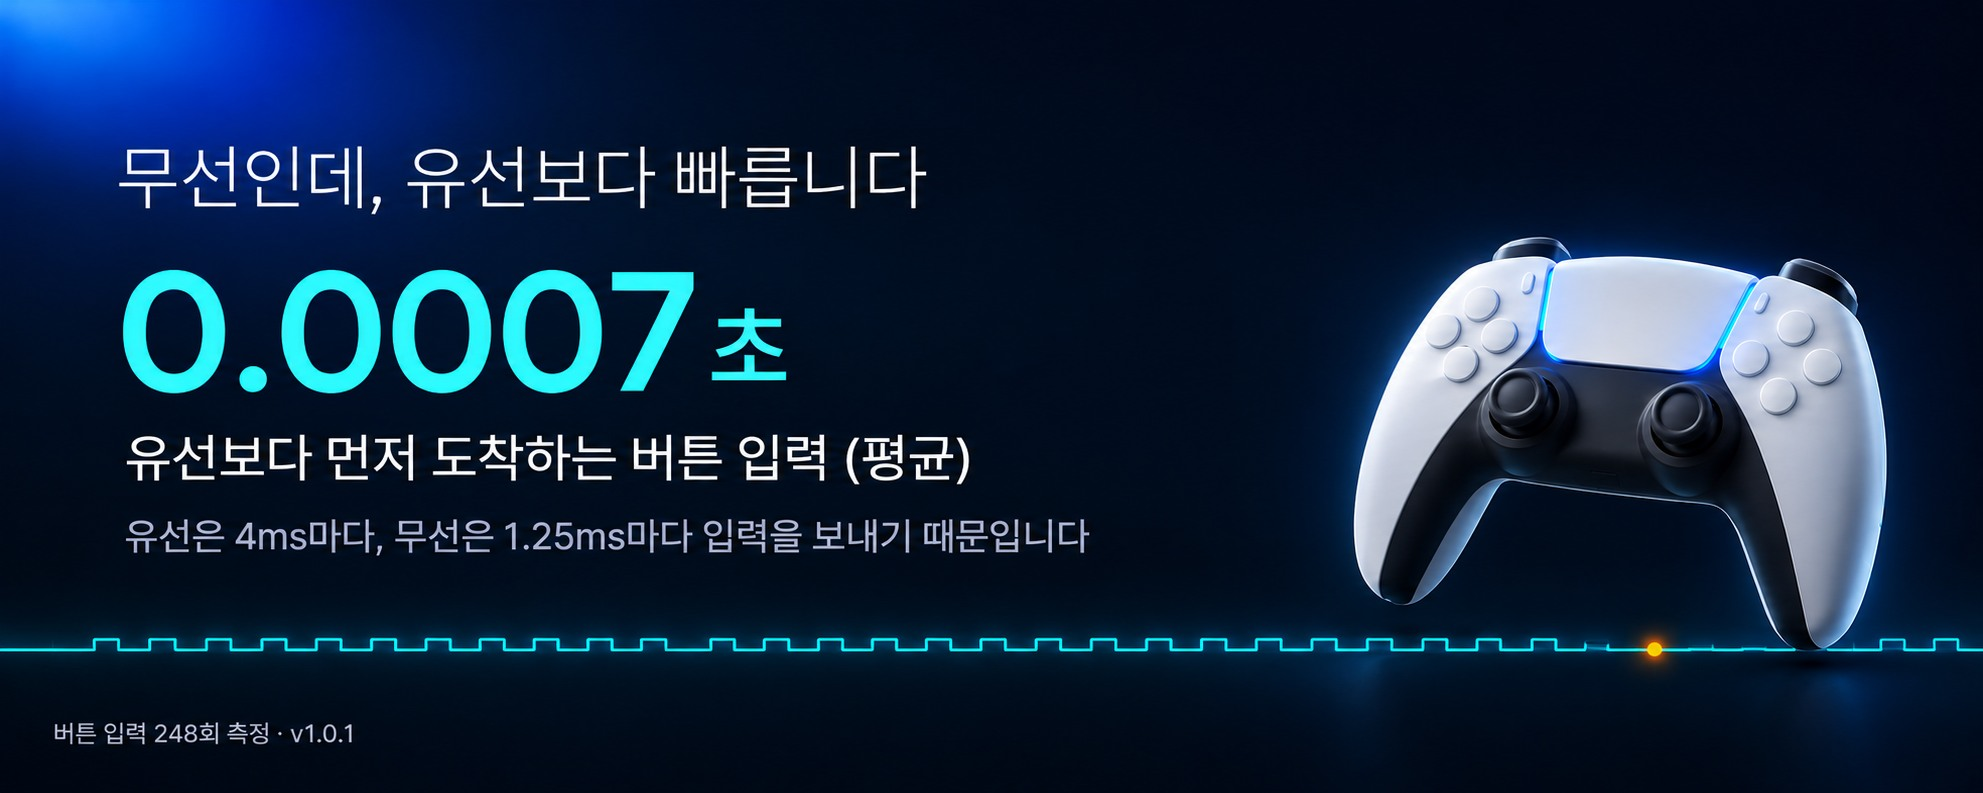
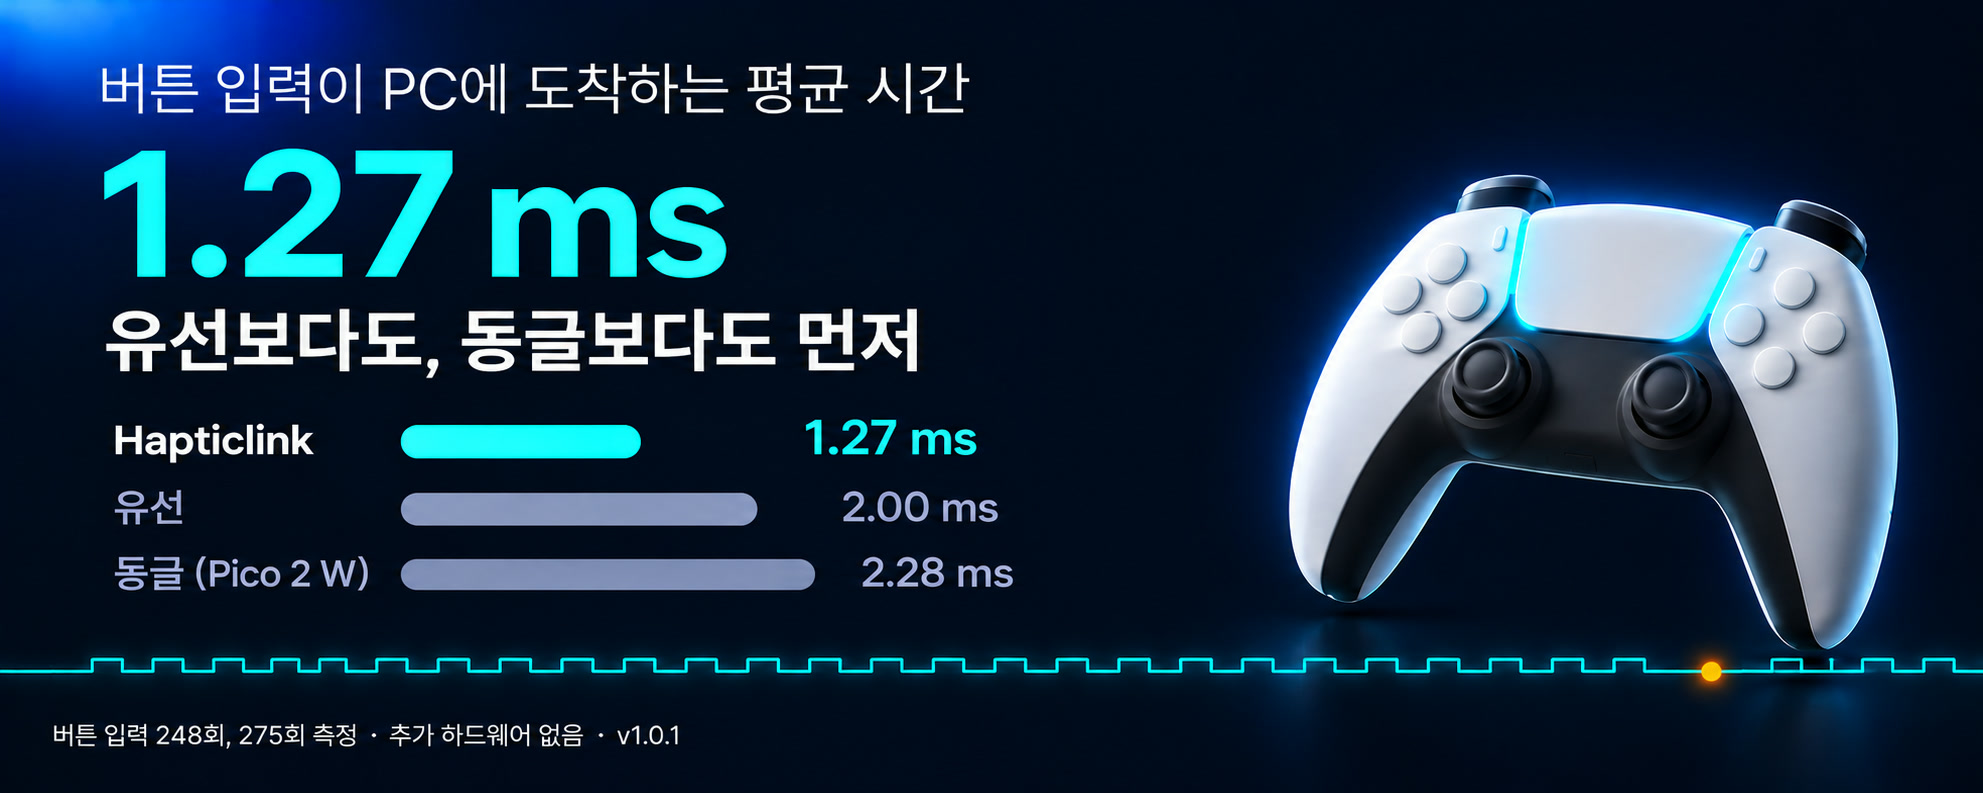
README: 1.0.2, with new screenshots, a comparison with the cable and the dongle, and updating from the program

Changed region(s): [[0.0, 0.0, 0.5537, 0.7566], [0.0, 0.1816, 1.0, 0.9079], [0.0308, 0.9079, 0.3384, 0.9382]]

diff --git a/README.md b/README.md
@@ -3,11 +3,20 @@
 </p>
 
 <p align="center">
-  <a href="https://github.com/Johyeonwoooooooo/Hapticlink/releases/download/v1.0.1/Hapticlink-Setup-1.0.1.exe"><img src="https://img.shields.io/badge/Download%20for%20Windows%20%C2%B7%201.0.1-2f7bff?style=for-the-badge" alt="Download for Windows · 1.0.1" height="44"></a>
+  <a href="https://github.com/Johyeonwoooooooo/Hapticlink/releases/download/v1.0.2/Hapticlink-Setup-1.0.2.exe"><img src="https://img.shields.io/badge/Download%20for%20Windows%20%C2%B7%201.0.2-2f7bff?style=for-the-badge" alt="Download for Windows · 1.0.2" height="44"></a>
 </p>
 
 <p align="center">
   <sub>Windows 10/11, 64-bit · 161 MB · not code-signed yet: on the "Windows protected your PC" screen choose <i>More info</i>, then <i>Run anyway</i> · <a href="https://github.com/Johyeonwoooooooo/Hapticlink/releases">all releases</a></sub>
+</p>
+
+<p align="center">
+  <sub>Found a bug, or have a question? Please open an issue or send an email.</sub>
+</p>
+
+<p align="center">
+  <a href="mailto:hyunwoo02031@naver.com"><img src="https://img.shields.io/badge/Email-hyunwoo02031%40naver.com-2f7bff?style=for-the-badge" alt="Email: hyunwoo02031@naver.com"></a>&nbsp;&nbsp;&nbsp;&nbsp;
+  <a href="https://github.com/Johyeonwoooooooo/Hapticlink/issues/new"><img src="https://img.shields.io/badge/GitHub-Open%20an%20issue-1b2233?style=for-the-badge" alt="Open an issue on GitHub"></a>
 </p>
 
 <p align="center">
@@ -18,7 +27,6 @@
 <h1 align="center">Hapticlink</h1>
 
 <p align="center">
-  <a href="https://github.com/Johyeonwoooooooo/Hapticlink/stargazers"><img src="https://img.shields.io/github/stars/Johyeonwoooooooo/Hapticlink?style=flat-square&color=111111&label=stars" alt="Stars"></a>
   <img src="https://img.shields.io/badge/Windows-10%20%C2%B7%2011-111111?style=flat-square" alt="Windows 10, 11">
   <img src="https://img.shields.io/badge/on--device-no%20data%20sent-111111?style=flat-square" alt="On-device, no data sent">
   <img src="https://img.shields.io/badge/languages-%ED%95%9C%EA%B5%AD%EC%96%B4%20%C2%B7%20English-111111?style=flat-square" alt="Korean, English">
@@ -30,9 +38,32 @@ Hapticlink is a Windows program for the DualSense controller. It does two things
 
 **It lets a wireless pad work in games just like a wired one.** Pair your pad over Bluetooth, open Hapticlink, and start your game. Haptic feedback, adaptive triggers and the controller speaker all work, with no cable and no dongle.
 
-**It tells you whether a pad is healthy.** It is handy before buying a used pad, when you suspect stick drift, or after a repair. Simply follow what the screen asks, and it will tell you, part by part, whether each one is fine or faulty.
+**It tells you whether a pad is healthy.** It is handy when you suspect stick drift, or after a repair. Simply follow what the screen asks, and it will tell you, part by part, whether each one is fine or faulty.
 
-Everything stays on your PC. Hapticlink sends nothing about you or your computer anywhere, and makes no outside connections.
+Everything stays on your PC. Hapticlink sends nothing about you or your computer anywhere. It connects outside only when you ask it to update.
+
+## 0.7 ms ahead of the cable, on average
+
+![Average time for a button press to reach the PC, 1.27 ms: ahead of the cable (2.00 ms) and ahead of the dongle (2.28 ms)](docs/latency.jpg)
+
+One pad was connected by cable and through Hapticlink at the same time, and the moment each button input reached the PC was compared on both. These are the results over 248 button inputs. The dongle was measured the same way, over 275 button inputs.
+
+| | What you need | Wire | Setup | Button press arrives (average) | Inputs that beat the cable |
+| --- | --- | --- | --- | --- | --- |
+| **Hapticlink** | **Nothing** | **No** | **Run the installer** | **about 1.27 ms** | **63%** |
+| Cable | A USB cable | Yes | Plug it in | about 2.00 ms | - |
+| Extra hardware (Pico 2 W dongle) | A Pico 2 W board | No | Buy the board, flash firmware | about 2.28 ms | 27% |
+
+- The arrival times are worked out, not timed directly. A wired pad sends an input every 4 ms, so a press waits 2.00 ms on average; Hapticlink's figure is that minus the measured difference of 0.73 ms, and the dongle's is that plus its measured difference of 0.28 ms. Time spent inside the pad is the same either way and is left out.
+- By the median it arrived 0.70 ms sooner, and 88% of inputs were within 4 ms of the cable.
+- Hapticlink's processing delay is 1.43 ms (median), and at most 4.01 ms 95% of the time. One frame of a 60 fps game is 16.7 ms.
+- The slowest 5% arrived 3.75 ms later or more, and the latest input arrived 11.53 ms later.
+
+A wired DualSense reports every 4 ms, and over Bluetooth it reports every 1.25 ms. So even after the radio and Hapticlink, the wireless input arrives first on average. Wireless does stumble now and then, though: 5 inputs in 100 arrived 3.75 ms or more after the cable.
+
+The processing delay is the time Hapticlink takes to receive an input and pass it on to the game. It was measured three times, against reading the same pad over Bluetooth directly.
+
+The figures against the cable are one 60-second run each, for Hapticlink (v1.0.1) and for the dongle, on one PC. Your Bluetooth adapter and the radio environment around you can change the figures.
 
 ## Wireless, with everything a cable gives you
 
@@ -46,26 +77,9 @@ Hapticlink shows the game a wired DualSense and carries everything across to you
 - **A cable only charges**: you can plug one in mid-game and nothing changes. If you would like the cable's own quality for a session, one button switches to it, and unplugging the cable brings you back to wireless.
 - **It stays out of your way**: it sits quietly in the tray, can start with Windows if you wish, and puts everything back the way it was when you quit.
 
-## Input delay, measured against the cable
-
-![Wireless. Faster than the cable: a button press arrives 0.0007 s sooner than wired, on average](docs/latency.jpg)
-
-One pad was connected by cable and through Hapticlink at the same time, and the moment each button input reached the PC was compared on both. These are the results over 248 button inputs.
-
-| | Hapticlink, compared with the cable |
-| --- | --- |
-| Average | arrives 0.73 ms sooner |
-| Median | arrives 0.70 ms sooner |
-| Slowest 5% | arrive 3.75 ms later, or more |
-| Latest input | arrived 11.53 ms later |
-
-A wired DualSense reports every 4 ms, and over Bluetooth it reports every 1.25 ms. So even after the radio and Hapticlink, the wireless input arrives first on average. Wireless does stumble now and then, though: 5 inputs in 100 arrived 3.75 ms or more after the cable.
-
-This is one 60-second run of v1.0.1 on one PC. Your Bluetooth adapter and the radio environment around you can change the figures.
-
 ## A one-minute diagnosis
 
-![Motion stage: line the pad up with the amber target pose](docs/en/motion.png)
+![Touchpad stage: the cells you rub fill in with rainbow colours](docs/en/touchpad.png)
 
 There are five stages, one after another, and just one rule: **follow the amber and you pass.**
 
@@ -125,6 +139,7 @@ Please download the installer from the button at the top, or from [Releases](htt
 - Windows may ask you to restart.
 - The first time it runs, Hapticlink asks which language to use and whether it should start with Windows. You can change both later.
 - The build is not code-signed yet. If you see the "Windows protected your PC" screen, please choose *More info*, then *Run anyway*.
+- New versions come through *Update* on the About tab. It needs an internet connection and keeps your settings. You can go back to an older version there too.
 - Uninstalling also removes the drivers this installer put in. Drivers that were already on your PC are left untouched.
 
 ## Frequently asked questions
@@ -145,12 +160,12 @@ This can happen after using the cable directly. Just press the PS button and the
 No, they do not. They apply only while that tab is open, and a running game's own settings take priority.
 
 **Does it send anything to a server?**
-No, it does not. There are no accounts, no telemetry and no update checks. The program is built so that it cannot even look up a host name.
+No, it does not. There are no accounts, no telemetry and no automatic update checks. It connects outside only when you press Update on the About tab, to get the list of versions and the installer from GitHub. The part that draws the screen is built so that it cannot even look up a host name.
 
 ## Contact
 
 <p>
-  <a href="mailto:hyunwoo02031@naver.com"><img src="https://img.shields.io/badge/Email-hyunwoo02031%40naver.com-2f7bff?style=for-the-badge" alt="Email: hyunwoo02031@naver.com"></a>
+  <a href="mailto:hyunwoo02031@naver.com"><img src="https://img.shields.io/badge/Email-hyunwoo02031%40naver.com-2f7bff?style=for-the-badge" alt="Email: hyunwoo02031@naver.com"></a>&nbsp;&nbsp;&nbsp;&nbsp;
   <a href="https://github.com/Johyeonwoooooooo/Hapticlink/issues/new"><img src="https://img.shields.io/badge/GitHub-Open%20an%20issue-1b2233?style=for-the-badge" alt="Open an issue on GitHub"></a>
 </p>
 
@@ -171,8 +186,8 @@ Hapticlink is free for you to use. It is not open source, however; please see [L
 
 - 3D model: [PS5 Controller](https://sketchfab.com/3d-models/ps5-controller-b7bb9c5102a04cb0b1966c6d02bad7d6) by Taohid Animation, [CC BY 4.0](https://creativecommons.org/licenses/by/4.0/).
   Parts were separated and named by [Kollynce/dualsense-controller](https://github.com/Kollynce/dualsense-controller);
-  pivots, materials and button glyphs were corrected by [MoniYeyu/dualsense-reactive-preview](https://github.com/MoniYeyu/dualsense-reactive-preview), whose version is used as is.
+  pivots, materials and button glyphs were corrected by [MoniYeyu/dualsense-reactive-preview](https://github.com/MoniYeyu/dualsense-reactive-preview), whose version is used with the PlayStation logo and the button symbols (△○×□) removed.
 - [three.js](https://github.com/mrdoob/three.js): MIT.
 - Font: [Pretendard](https://github.com/orioncactus/pretendard), SIL Open Font License 1.1.
 
-This is an unofficial project and is not affiliated with Sony Interactive Entertainment. PlayStation, DualSense and related logos are trademarks of their respective owners.
+This is an unofficial project and is not affiliated with Sony Interactive Entertainment. PlayStation, DualSense and PS5 are trademarks or registered trademarks of Sony Interactive Entertainment Inc.
